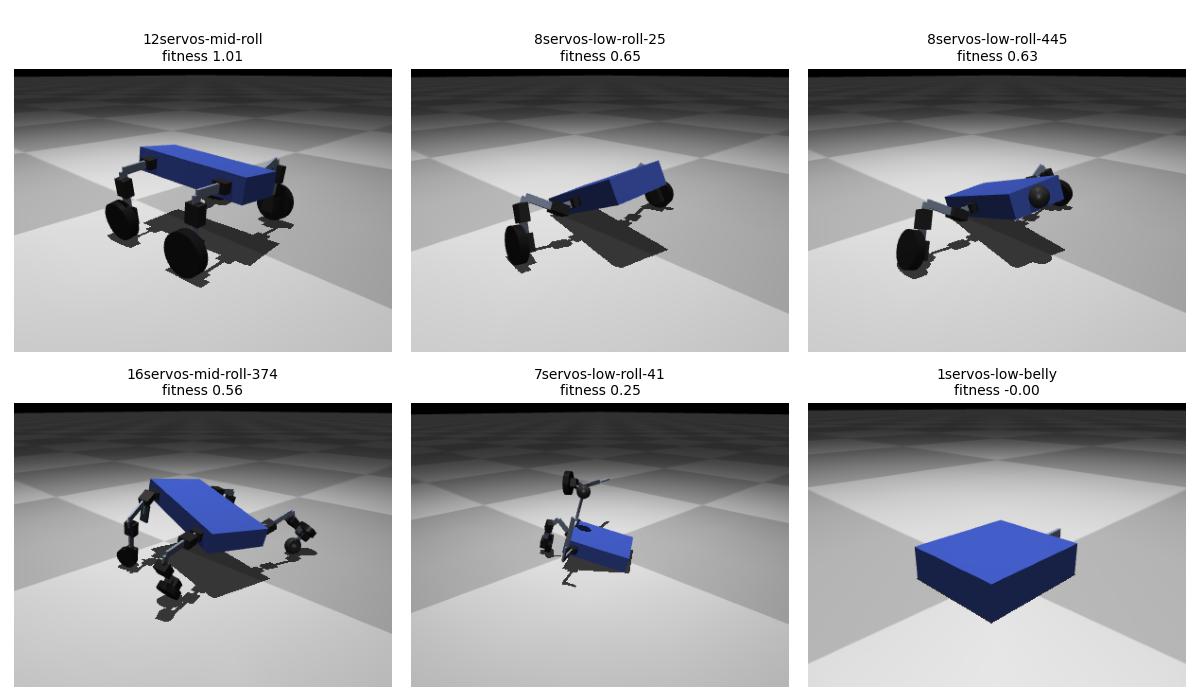
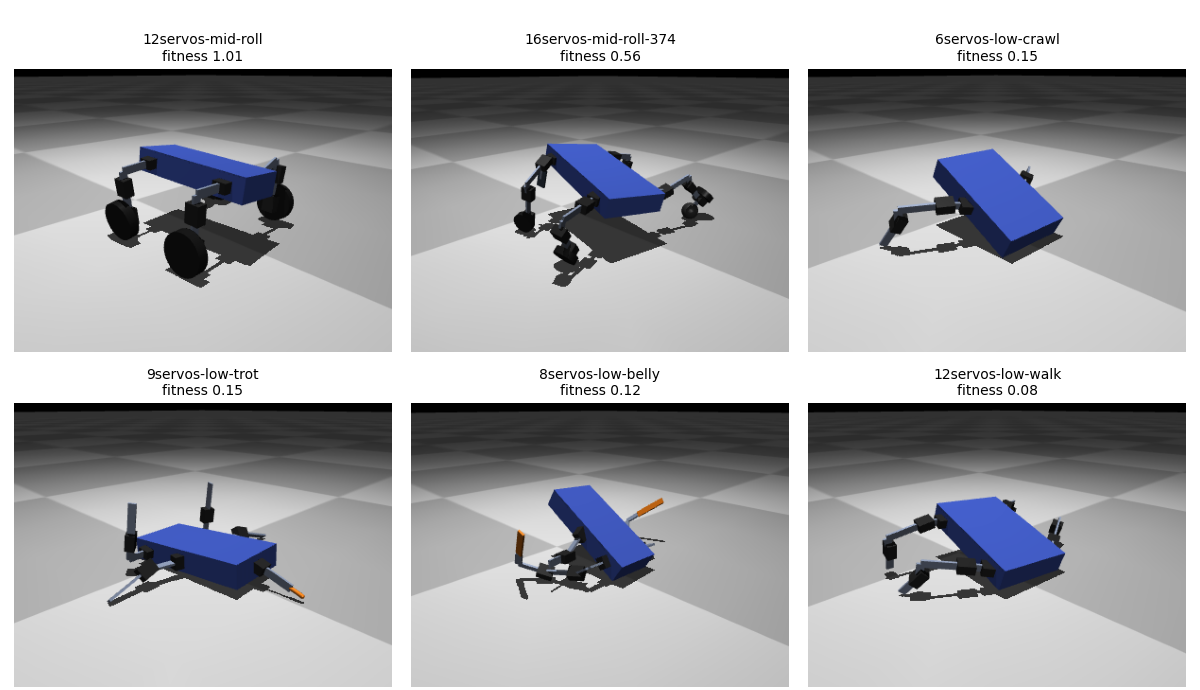
README figure: showcase one robot per gait and passive module

diff --git a/tools/make_readme_figures.py b/tools/make_readme_figures.py
@@ -73,24 +73,36 @@ def ranked(archive, seed):
     return sorted(items, key=lambda kv: -kv[1].fitness)
 
 
+# Showcase slots, filled in order: the best roller, the best of each legged
+# gait, and the best robots built around a passive module.
+SHOWCASE = (
+    ("roll", lambda m, name: name.split("-")[2] == "roll"),
+    ("trot", lambda m, name: name.split("-")[2] == "trot"),
+    ("walk", lambda m, name: name.split("-")[2] == "walk"),
+    ("crawl", lambda m, name: name.split("-")[2] == "crawl"),
+    ("spring", lambda m, name: any(x.kind == "spring" for x in m.nodes.values())),
+    ("passive", lambda m, name: any(x.kind in ("spike", "skid", "caster", "tail")
+                                    for x in m.nodes.values())),
+)
+MIN_SHOWCASE_SERVOS = 3      # a one-servo brick is a valid elite but a dull picture
+
+
 def pick_distinct(items, n=6):
     """
-    Best elite of each (leg count, has wheels) group. The first pass takes the
-    best group per leg count so every leg count shows up; the rest fill up by
-    fitness.
+    One robot per SHOWCASE slot (best fitness first, each robot used once,
+    bodies with fewer than MIN_SHOWCASE_SERVOS skipped); empty slots are
+    filled with the next best robots.
     """
-    groups = {}
-    for cell, elite in items:                  # items are sorted: first = best
-        m = morpho.decode(elite.morph)
-        groups.setdefault((m.n_terminals, m.n_wheels > 0), (cell, elite))
-    firsts, seen = [], set()
-    for key, val in groups.items():
-        if key[0] not in seen:
-            seen.add(key[0])
-            firsts.append(val)
-    rest = [v for v in groups.values() if v not in firsts]
-    chosen = (firsts + rest)[:n]
-    return sorted(chosen, key=lambda kv: -kv[1].fitness)
+    decoded = [(cell, e, morpho.decode(e.morph)) for cell, e in items]
+    pool = [d for d in decoded if d[2].n_servos >= MIN_SHOWCASE_SERVOS] or decoded
+    chosen = []
+    for _, wanted in SHOWCASE:
+        for d in pool:                         # items are sorted: first = best
+            if d not in chosen and wanted(d[2], d[0]):
+                chosen.append(d)
+                break
+    chosen += [d for d in pool if d not in chosen][:max(0, n - len(chosen))]
+    return sorted([(c, e) for c, e, _ in chosen[:n]], key=lambda kv: -kv[1].fitness)
 
 
 def best_wheelless(items):
